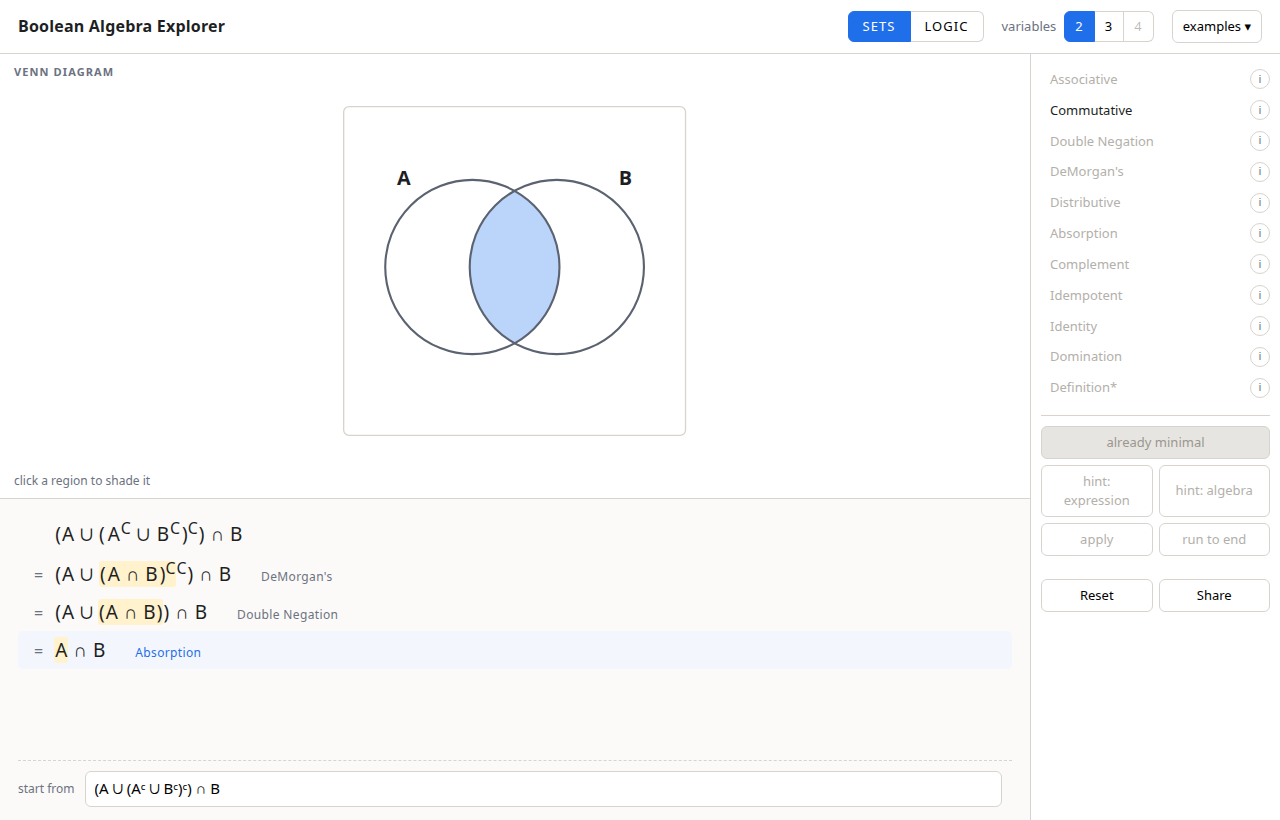
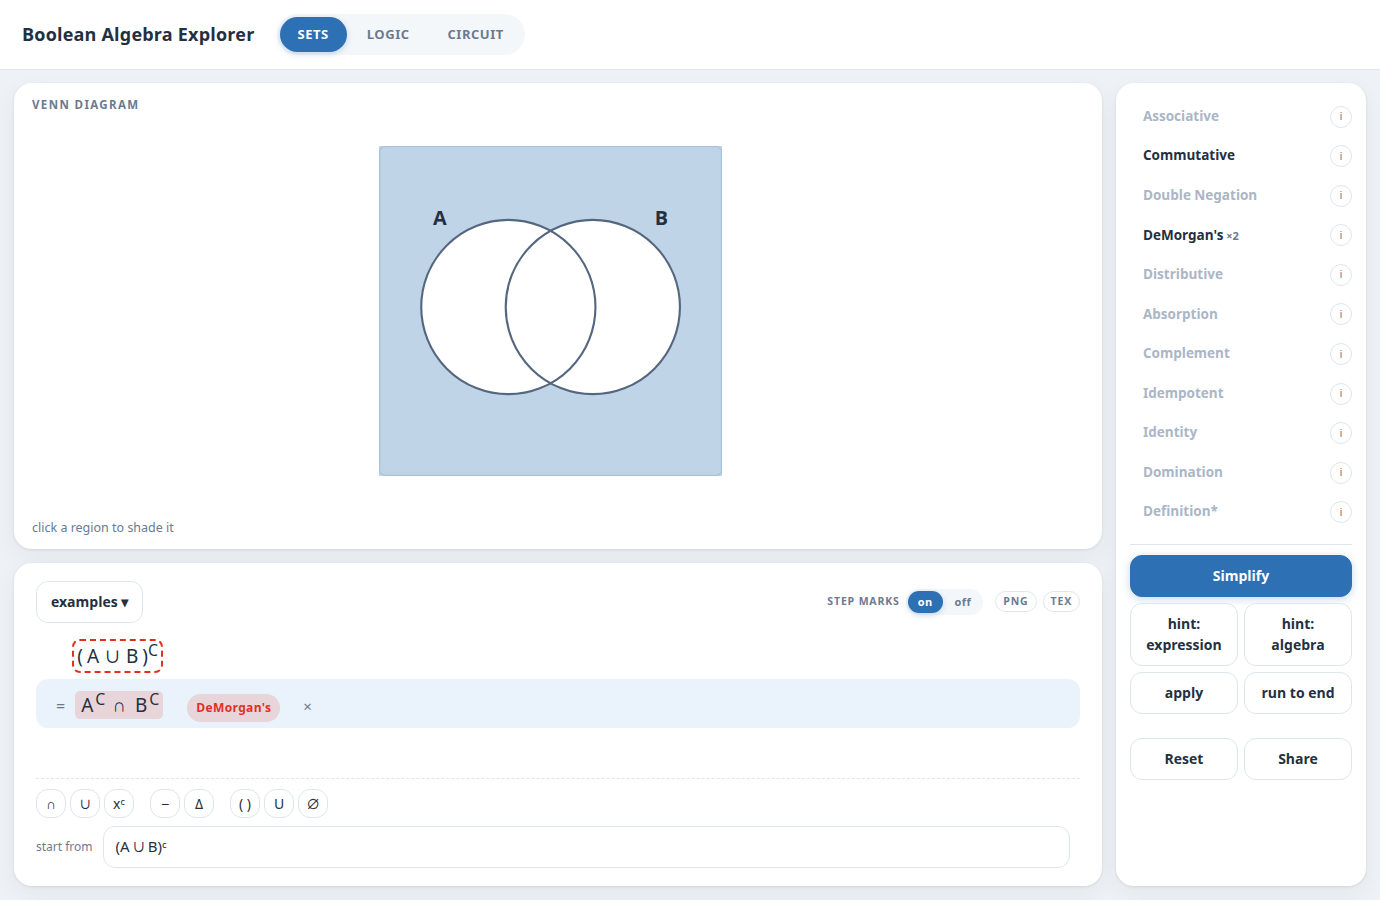
Refresh the README and its screenshots
Both shots predated the chrome rework and still showed the variables
picker. The sets one now shows DeMorgan applied with the shading
unchanged either side of it, which is the tool's whole thesis in one
picture.

Point the run instructions at serve.py: plain http.server sends no
Cache-Control, and a stale ES module after an edit looks exactly like a
change that did not work.

diff --git a/README.md b/README.md
@@ -13,9 +13,11 @@ Sets mode shows the same expression as a Venn diagram:
 
 ![sets mode](media/sets-mode.png)
 
-- **docs/** — the app. Plain ES modules, no build step: open
-  `docs/index.html` through any static server, or just deploy the
-  folder. Tests are `docs/test.html` (core) and `docs/uitest.html`
+- **docs/** — the app. Plain ES modules, no build step: deploy the
+  folder, or run `python3 serve.py` and open the port it prints. Use
+  that rather than `python3 -m http.server`, which sends no
+  `Cache-Control` and will happily serve a stale module after an edit.
+  Tests are `docs/test.html` (core) and `docs/uitest.html`
   (interaction); both print `RESULT pass=N fail=N`.
 - **[SPEC.md](SPEC.md)** — the specification. Start here.
 - **reference/** — the CS1800 `logic_set_identities` handout (PDF +
@@ -28,7 +30,13 @@ Sets mode shows the same expression as a Venn diagram:
 - **patches/** — fixes for two errors the prototype found in
   `CS1800/problem_repo`. Not applied.
 
-Status: working prototype, 97 tests passing. Section 18 records
-every design decision with the evidence behind it — mostly the course's
-own problem sets and rubrics in `CS1800/problem_repo` — and lists what
-is still open.
+Expressions go in as symbols (`(A u B)^C`), words (`comp(sunny or
+warm)`) or LaTeX (`\overline{A \cup B}`), with a key of operator
+buttons for the glyphs no keyboard has. Variables can be named. Work
+comes out as PNG, CSV or LaTeX — the truth table, the derivation, and
+the circuit.
+
+Status: working prototype, 254 tests passing (108 core, 146
+interaction). Section 18 records every design decision with the evidence
+behind it — mostly the course's own problem sets and rubrics in
+`CS1800/problem_repo` — and lists what is still open.
